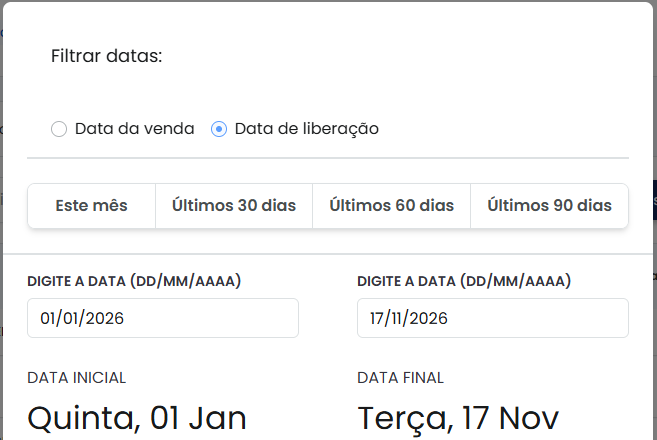
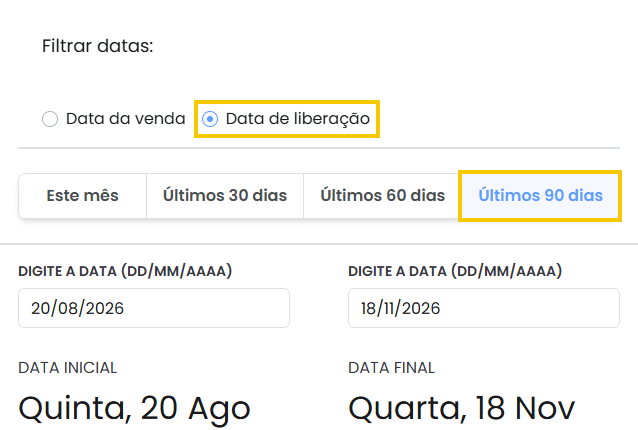
Recebimentos Webro: print do passo 2 com Últimos 90 dias

diff --git a/js/comercial/recebimentos-webro.js b/js/comercial/recebimentos-webro.js
@@ -810,7 +810,7 @@ const RecebimentosWebroApp = {
       <p class="rweb-note" style="margin-bottom:6px;">Onde baixar o relatório no portal da Webro:</p>
       <div class="rweb-passos">
         ${passo(1, "passo1-gestao-contratos.png", "Abra <strong>Gestão de contratos</strong> na aba <strong>Todos os Contratos</strong>.")}
-        ${passo(2, "passo2-periodo.png", "Em <strong>Selecionar período</strong>, marque <strong>Data de liberação</strong> e escolha as datas.")}
+        ${passo(2, "passo2-periodo.png?v=2", "Em <strong>Selecionar período</strong>, marque <strong>Data de liberação</strong> e clique em <strong>Últimos 90 dias</strong>.")}
         ${passo(3, "passo3-baixar-excel.png", "<strong>Baixar Excel</strong> &gt; Modelo antigo, por comissão &gt; <strong>Todos os contratos</strong>.")}
       </div>`;
     let corpo = "";

diff --git a/index.html b/index.html
@@ -8735,7 +8735,7 @@ RG: {{TESTEMUNHA_2_RG}}</textarea>
   <script defer src="js/nucleo/documentos-sienge.js?v=6b96789811"></script>
   <script type="text/x-sob-demanda" data-grupo="orcamento" data-src="js/comercial/tabelas-vigentes.js?v=05d1844b7e"></script>
   <script defer src="js/comercial/controle-comissao.js?v=1a559ba01b"></script>
-  <script defer src="js/comercial/recebimentos-webro.js?v=20261118passos"></script>
+  <script defer src="js/comercial/recebimentos-webro.js?v=20261118p90"></script>
   <script defer src="js/cobranca/scod.js?v=d1771ffac5"></script>
   <script defer src="js/cobranca/importar-acionamentos.js?v=44382f1307"></script>
   <script defer src="js/financeiro/centros-custo.js?v=baefd1313f"></script>
